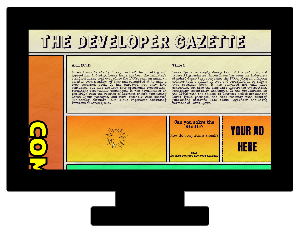
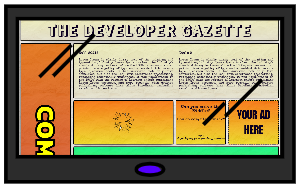
updated screen preview images

diff --git a/index.html b/index.html
@@ -204,7 +204,7 @@
       <img src = "office_images/circle.png" id = "circle">
     </div>
     <div id = "bottom_left">
-      <img src = "office_images/jobsearch.png">
+      <img src = "office_images/jobsearch.png" id= "picturescreen">
     </div>
     <div id = "top_right">
       <h4 class = "port-title">Job Application Manager</h4>
@@ -239,7 +239,7 @@
        <img src = "office_images/circle2.png" id= "circle">
     </div>
     <div id = "bottom_right">
-      <img src = "office_images/digest.png">
+      <img src = "office_images/digest.png" id = "picturescreen">
     </div>
     <div id = "right_sidebar">
        
@@ -253,12 +253,12 @@
        <img src = "office_images/circle3.png" id= "circle2">
     </div>
     <div id = "bottom_left">
-      <img src = "office_images/sushicomp.png">
+      <img src = "office_images/burgercomp.png" id = "picturescreen">
     </div>
     <div id = "top_right">
-      <h5 class = "port-title">Fetch Sushi Bar</h5>
+      <h5 class = "port-title">Vegan Burger Hut</h5>
       <p>
-        Responsive 5-Star Seafood restaurant website, where patrons can view the dinner menu, photo gallery, contact number, restaurant address and hours of operations.
+        Responsive Vegan Burger Hut restaurant website, where patrons can view the dinner menu, photo gallery, contact number, restaurant address and hours of operations.
       <p>
       <a class="btnProject  btn-sm" href="https://fetchseafoodrestaurant.joyloruth.repl.co/" target="_blank"> view project</a>
       <a class="btnSource btn-primary btn-sm" href="https://github.com/joyloruth/FETCHSeafoodRestaurant"target="_blank">source code</a>

diff --git a/style.css b/style.css
@@ -1824,3 +1824,7 @@ p{
 #bottom_right{
   grid-area: bottom_right;
 }
+
+#picturescreen{
+  width:400px;
+}
